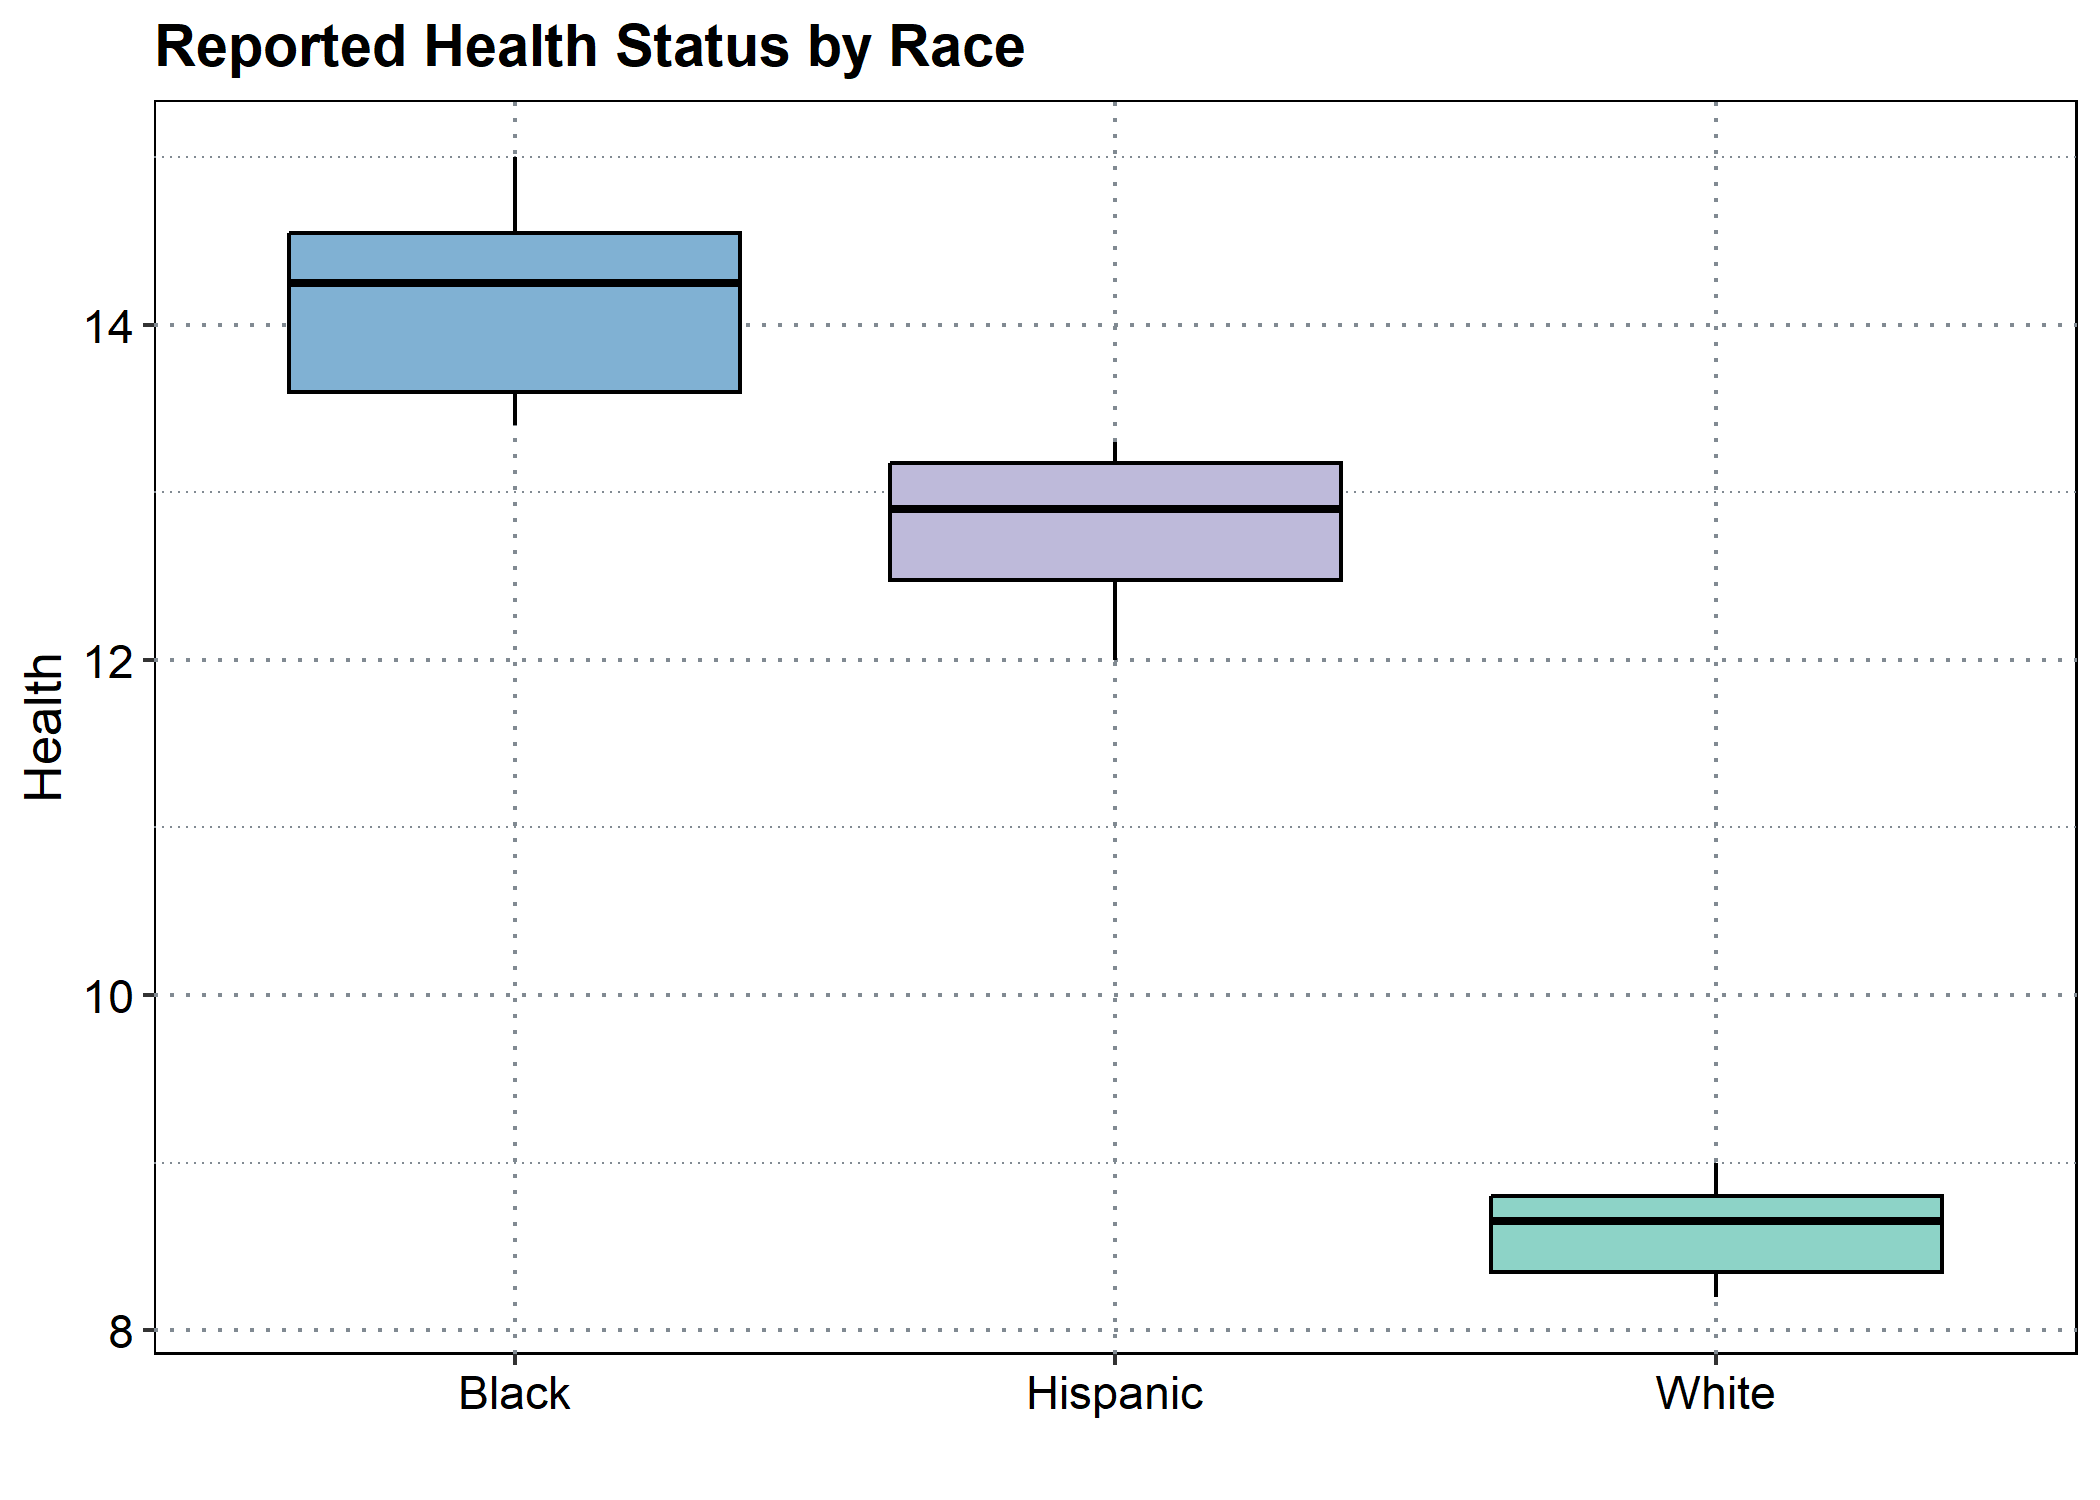
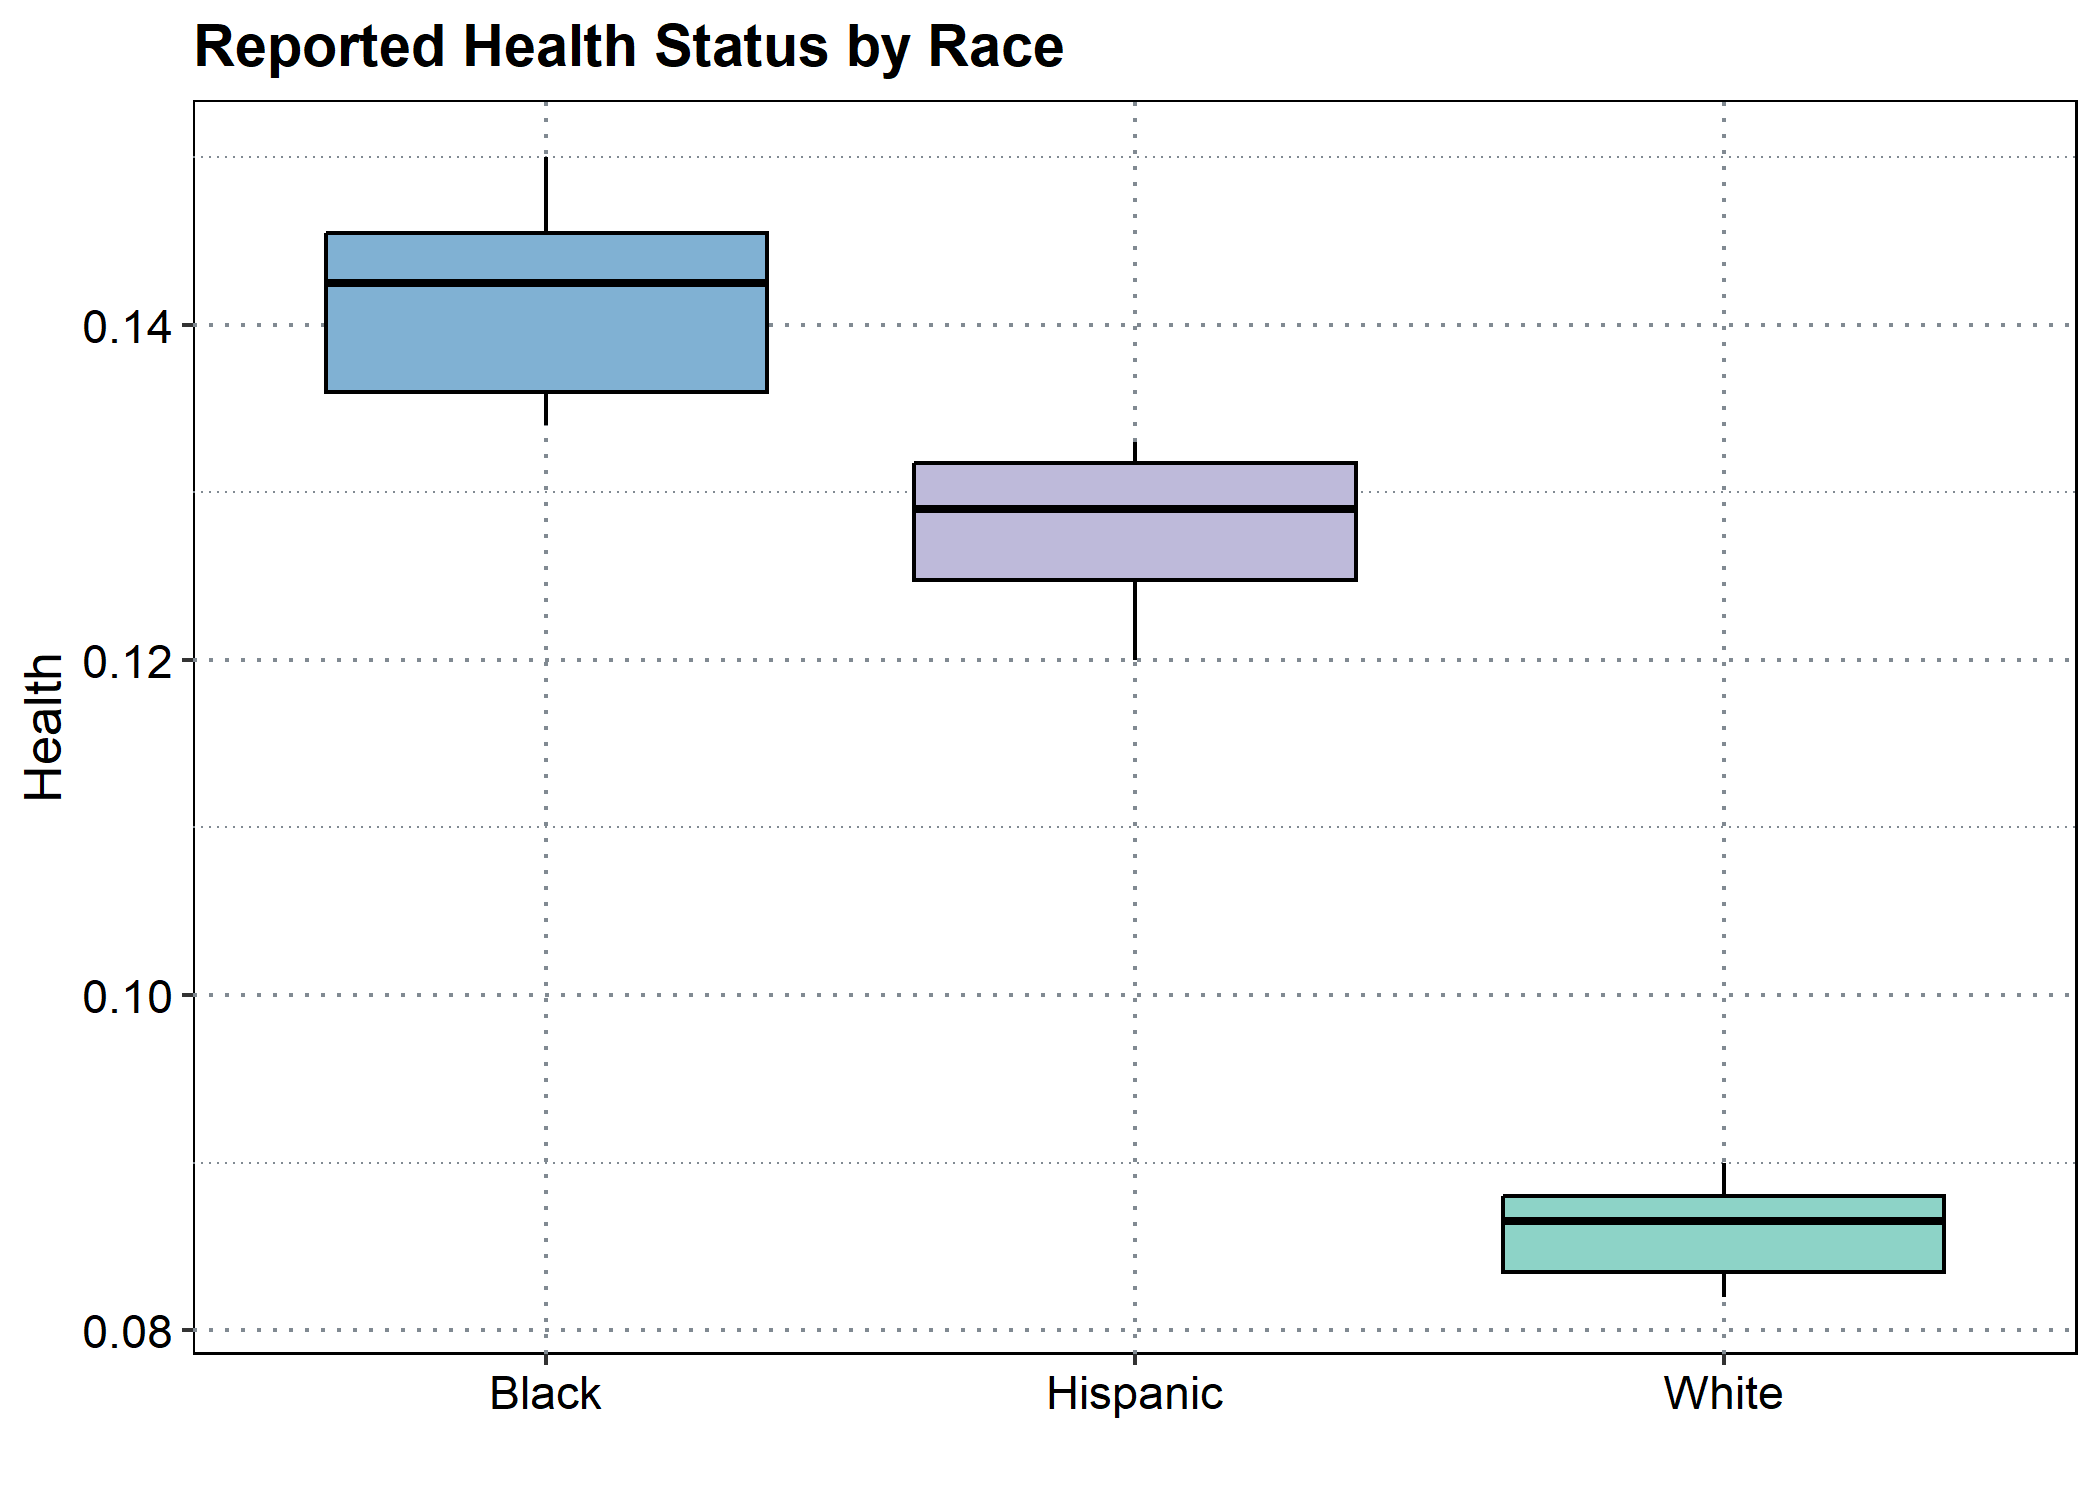
Updating Markdown Files

diff --git a/Overview-Markdown.md b/Overview-Markdown.md
@@ -50,25 +50,25 @@ gender:
 
     ## [1] "Health Status by Gender"
 
-    ##       Male           Female      
-    ##  Min.   :8.700   Min.   : 9.100  
-    ##  1st Qu.:8.800   1st Qu.: 9.275  
-    ##  Median :9.000   Median : 9.600  
-    ##  Mean   :8.979   Mean   : 9.600  
-    ##  3rd Qu.:9.100   3rd Qu.: 9.875  
-    ##  Max.   :9.400   Max.   :10.100
+    ##       Male             Female       
+    ##  Min.   :0.08700   Min.   :0.09100  
+    ##  1st Qu.:0.08800   1st Qu.:0.09275  
+    ##  Median :0.09000   Median :0.09600  
+    ##  Mean   :0.08979   Mean   :0.09600  
+    ##  3rd Qu.:0.09100   3rd Qu.:0.09875  
+    ##  Max.   :0.09400   Max.   :0.10100
 
 Race:
 
     ## [1] "Health Status by Race"
 
-    ##      White          Black          Hispanic    
-    ##  Min.   :8.20   Min.   :13.40   Min.   :12.00  
-    ##  1st Qu.:8.35   1st Qu.:13.60   1st Qu.:12.47  
-    ##  Median :8.65   Median :14.25   Median :12.90  
-    ##  Mean   :8.60   Mean   :14.17   Mean   :12.81  
-    ##  3rd Qu.:8.80   3rd Qu.:14.55   3rd Qu.:13.18  
-    ##  Max.   :9.00   Max.   :15.00   Max.   :13.30
+    ##      White            Black           Hispanic     
+    ##  Min.   :0.0820   Min.   :0.1340   Min.   :0.1200  
+    ##  1st Qu.:0.0835   1st Qu.:0.1360   1st Qu.:0.1247  
+    ##  Median :0.0865   Median :0.1425   Median :0.1290  
+    ##  Mean   :0.0860   Mean   :0.1417   Mean   :0.1281  
+    ##  3rd Qu.:0.0880   3rd Qu.:0.1455   3rd Qu.:0.1318  
+    ##  Max.   :0.0900   Max.   :0.1500   Max.   :0.1330
 
 And income level. These variables report health statuses for Americans
 based on their income as a percentage of the federal poverty line (e.g.,
@@ -77,13 +77,13 @@ earning between 100% and 199% of the poverty line).
 
     ## [1] "Health Status by Income Level"
 
-    ##   Under100pct    Btwn100and199pct Btwn200and399pct   Over400pct   
-    ##  Min.   :19.80   Min.   :14.20    Min.   :7.900    Min.   :3.900  
-    ##  1st Qu.:20.68   1st Qu.:14.40    1st Qu.:8.225    1st Qu.:4.025  
-    ##  Median :21.10   Median :14.90    Median :8.400    Median :4.250  
-    ##  Mean   :21.08   Mean   :14.77    Mean   :8.421    Mean   :4.250  
-    ##  3rd Qu.:21.57   3rd Qu.:15.00    3rd Qu.:8.675    3rd Qu.:4.375  
-    ##  Max.   :21.80   Max.   :15.40    Max.   :9.000    Max.   :4.700
+    ##   Under100pct     Btwn100and199pct Btwn200and399pct    Over400pct     
+    ##  Min.   :0.1980   Min.   :0.1420   Min.   :0.07900   Min.   :0.03900  
+    ##  1st Qu.:0.2067   1st Qu.:0.1440   1st Qu.:0.08225   1st Qu.:0.04025  
+    ##  Median :0.2110   Median :0.1490   Median :0.08400   Median :0.04250  
+    ##  Mean   :0.2108   Mean   :0.1477   Mean   :0.08421   Mean   :0.04250  
+    ##  3rd Qu.:0.2157   3rd Qu.:0.1500   3rd Qu.:0.08675   3rd Qu.:0.04375  
+    ##  Max.   :0.2180   Max.   :0.1540   Max.   :0.09000   Max.   :0.04700
 
 ## Note on Health Disparities
 
@@ -93,11 +93,11 @@ communities in different magnitues. As the above summary statistics
 imply, black and hispanic Americans are much more likely to report
 “poor” or “fair” health than White americans:
 
-![](Overview-Markdown_files/figure-markdown_strict/unnamed-chunk-8-1.png)
+<img src="Overview-Markdown_files/figure-markdown_strict/unnamed-chunk-8-1.png" width="75%" />
 
 Similarly, women are more likely to report subpar health than men:
 
-![](Overview-Markdown_files/figure-markdown_strict/unnamed-chunk-9-1.png)
+<img src="Overview-Markdown_files/figure-markdown_strict/unnamed-chunk-9-1.png" width="75%" />
 
 ## Data Trends
 
@@ -108,7 +108,7 @@ Foundation](https://www.kff.org/medicaid/state-indicator/medicaid-income-eligibi
 In 2013, the median eligibility leaps up to 138% due to the
 implementation of the Affordable Care Act.
 
-![](Overview-Markdown_files/figure-markdown_strict/unnamed-chunk-10-1.png)
+<img src="Overview-Markdown_files/figure-markdown_strict/unnamed-chunk-10-1.png" width="75%" />
 
 It is important to note that this is the *median* value rather than the
 national eligibility limit.
@@ -119,7 +119,7 @@ signifying the implementation of the increased eligibility limit.
 
 First, let’s look at trend in hospital visits:
 
-![](Overview-Markdown_files/figure-markdown_strict/unnamed-chunk-11-1.png)
+<img src="Overview-Markdown_files/figure-markdown_strict/unnamed-chunk-11-1.png" width="75%" />
 
 The Affordable Care Act appears to have no impact on the number of
 Americans visiting emergency rooms. There is a noticeable decline in
@@ -129,7 +129,7 @@ eligibility.
 
 Next let’s exlpore Americans foregoing medical care:
 
-![](Overview-Markdown_files/figure-markdown_strict/unnamed-chunk-12-1.png)
+<img src="Overview-Markdown_files/figure-markdown_strict/unnamed-chunk-12-1.png" width="75%" />
 
 Unlike emergency room visits, the percentage of Americans foregoing care
 due to cost burdens seems to have been impacted by the Affordable Care
@@ -138,7 +138,7 @@ reporting foregoing care in 2021.
 
 Next we’ll look at assets and debts of the poorest Americans:
 
-![](Overview-Markdown_files/figure-markdown_strict/unnamed-chunk-13-1.png)
+<img src="Overview-Markdown_files/figure-markdown_strict/unnamed-chunk-13-1.png" width="75%" />
 
 We would expect Medicaid expansion to have an impact on the personal
 finances of the poorest Americans given (1) the increased financial
@@ -156,7 +156,7 @@ been disrupted.
 Next, we’ll explore the health status of those living under the federal
 poverty line:
 
-![](Overview-Markdown_files/figure-markdown_strict/unnamed-chunk-14-1.png)
+<img src="Overview-Markdown_files/figure-markdown_strict/unnamed-chunk-14-1.png" width="75%" />
 
 There does not appear to be a cohesive narrative in this data. The
 pattern is jagged, with the Medicaid expansion not appearing to have an
@@ -171,7 +171,7 @@ regarding eligibility and enrollment.
 
 The same appears to be true for all income levels:
 
-![](Overview-Markdown_files/figure-markdown_strict/unnamed-chunk-15-1.png)
+<img src="Overview-Markdown_files/figure-markdown_strict/unnamed-chunk-15-1.png" width="75%" />
 
 We can see a clear stratification between reported health status and
 income level, with higher incomes corresponding with improved health and
